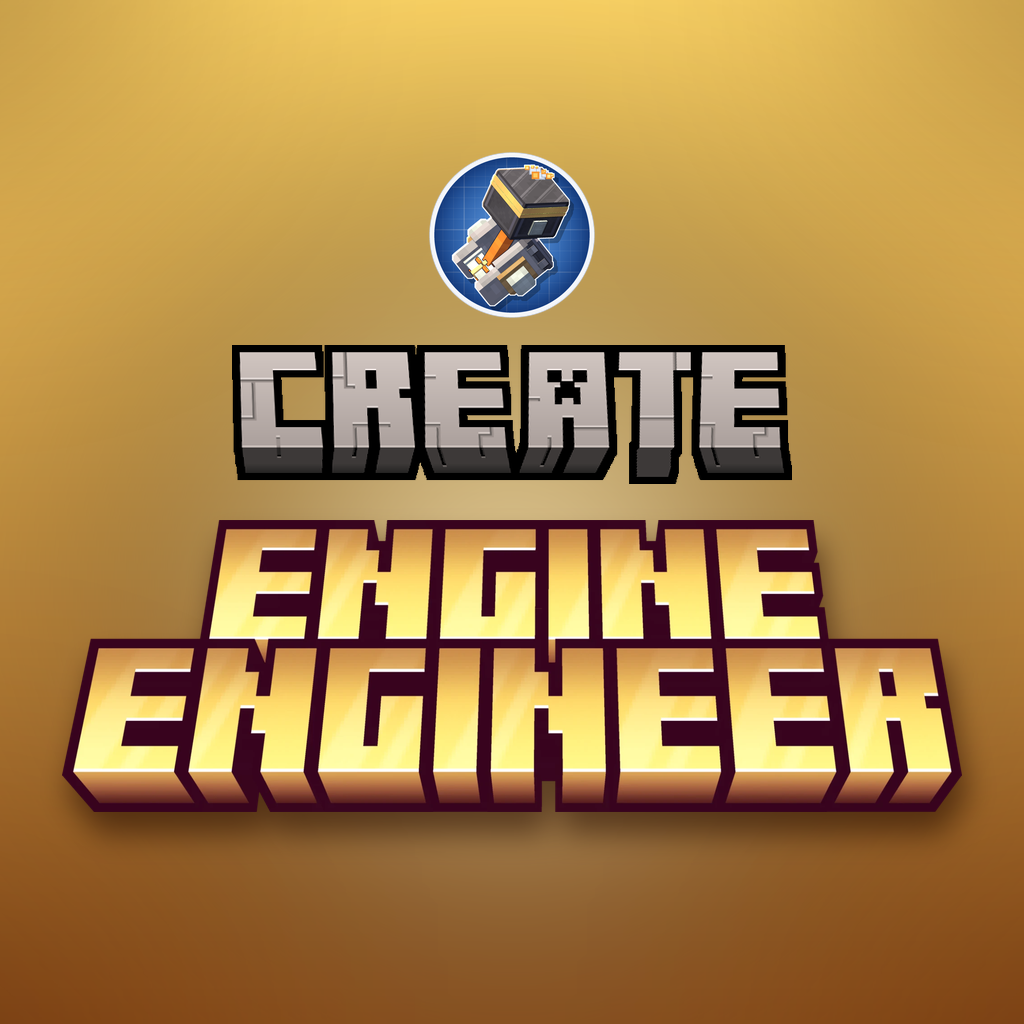
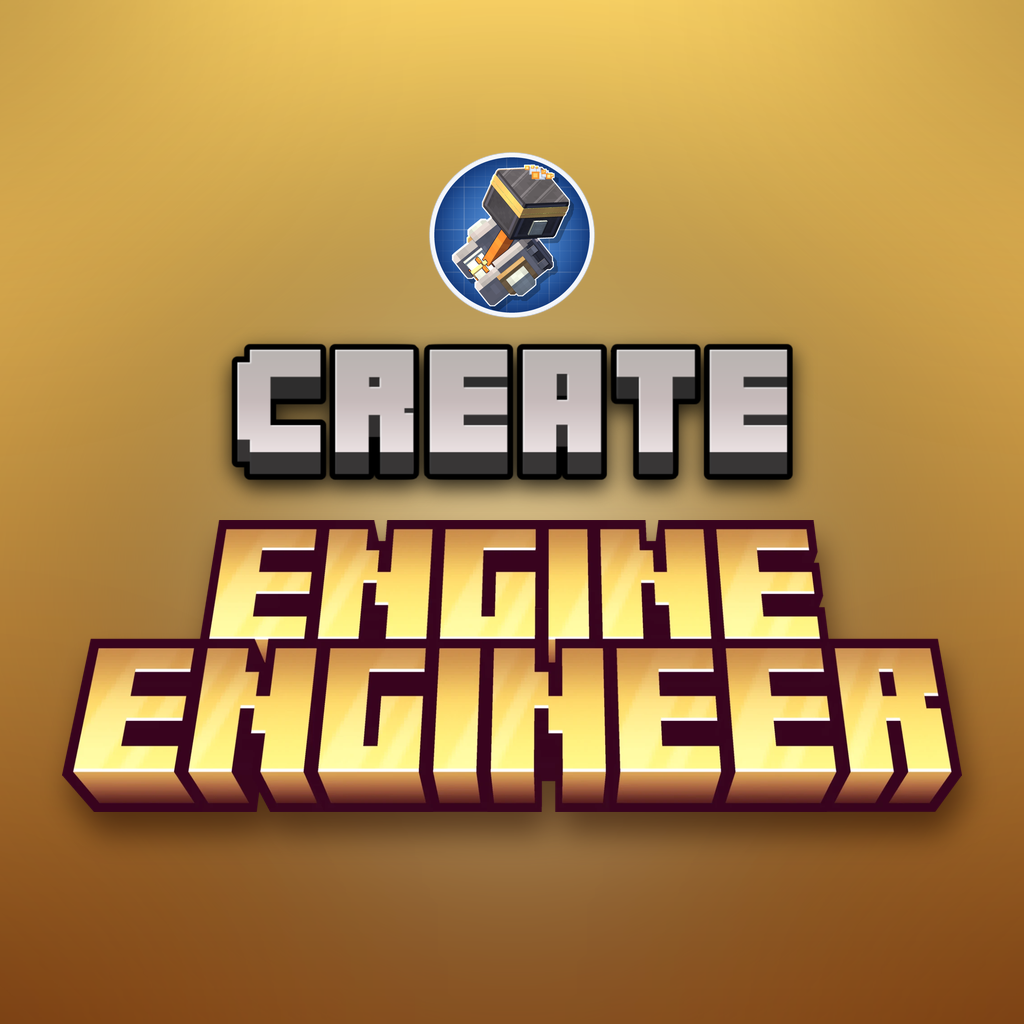
Use the author's CREATE lettering in the title art
Replaces the lettering cut from Minecraft's logo texture on the title cards,
thumbnail and golden listing tile.

Changed region(s): [[0.2188, 0.3125, 0.7812, 0.5]]

diff --git a/tools/create_lettering.py b/tools/create_lettering.py
@@ -1,100 +1,35 @@
-"""Typesets "CREATE" in Minecraft's own title-screen font, because Create ships no lettering.
+"""The "CREATE" lettering that goes above the wordmark: docs/images/create_lettering.png, a drawn picture on transparent.
 
-    python tools/create_lettering.py [output.png]      writes docs/images/create_lettering.png
-
-Minecraft's logo texture (assets/minecraft/textures/gui/title/minecraft.png) has the letters C, R, A and T and an E, so each
-letter is cut out with its outline and kept in the logo's own grey stone, then set in the order CREATE. `sized(width)` is what the title cards, thumbnail and listing tile place directly above the wordmark. Needs Pillow, numpy and scipy (the Python 3.12 install here has them) and a Gradle build having unpacked the client resources.
+`place()` is what the title cards, thumbnail and listing tile use. The picture has a soft shadow round the letters, so sizes
+and positions are measured on the letters themselves and the shadow hangs outside them. Needs Pillow (the Python 3.12
+install here has it).
 """
-import io
-import sys
-import zipfile
 from pathlib import Path
 
-import numpy as np
 from PIL import Image
-from scipy import ndimage as ndi
 
-ROOT = Path(__file__).resolve().parents[1]
-IMAGES = ROOT / "docs" / "images"
-
-ORDER = "CREATE"
-# the letters are cut from the logo's own letters (MINECRAFT has C, R, E, A and T): the x-ranges of each letter's face in the
-# 1024x256 texture, found by labelling the lit pixels (E is used twice)
-SPANS = {"E": (359, 466), "C": (475, 578), "R": (587, 694), "A": (695, 811), "T": (911, 1014)}
-OUTLINE = 9
-LEAN_PER_COLUMN = -0.0001  # the logo's letters lean their bottoms toward its middle by this many columns per row for each column away
-GAP = 10   # outlines are 9 px thick, so the faces end up 12 px apart and no outline cuts into a neighbour
+PICTURE = Path(__file__).resolve().parents[1] / "docs" / "images" / "create_lettering.png"
+SOLID = 250  # alpha above this is a letter or its outline; the shadow is fainter
 
 
-def title_texture():
-    """The game's own title-screen logo texture, from the resources jar the Gradle build unpacked."""
-    sys.path.insert(0, str(ROOT / "tools" / "trailer"))
-    import mcfont
-    with zipfile.ZipFile(mcfont._find_jar()) as jar:
-        return Image.open(io.BytesIO(jar.read("assets/minecraft/textures/gui/title/minecraft.png"))).convert("RGBA")
+def _open():
+    """The picture, and the box round its letters."""
+    picture = Image.open(PICTURE).convert("RGBA")
+    return picture, picture.getchannel("A").point(lambda a: 255 if a > SOLID else 0).getbbox()
 
 
-def letter(texture, ch, target=None):
-    """One letter with its own black outline and extrusion, recoloured, cropped to its pixels."""
-    a = np.array(texture).astype(int)
-    if ch == "T":  # the logo's T has its stem's foot curl left, which reads as a J: carry the stem straight down instead
-        for y in range(134, 167):
-            a[y] = np.roll(a[133], round((y - 133) * 0.28), axis=0)
-    lit = (a[..., 3] > 200) & (a[..., :3].mean(axis=2) > 35)
-    x0, x1 = SPANS[ch]
-    box = np.zeros_like(lit)
-    box[:, x0 - 3:x1 + 3] = True
-    labels, _ = ndi.label(lit & box)
-    biggest = np.argmax(ndi.sum(lit & box, labels, range(1, labels.max() + 1))) + 1
-    face = labels == biggest
-    pixels = np.where(face[..., None], a, 0).astype("uint8")  # the lit stone only: the outline is drawn round the whole word
-    image = Image.fromarray(pixels, "RGBA")
-    # The logo is in perspective: letters left of its middle lean one way and letters right of it the other, more the further out
-    # they are (the E about -0.1 columns per row, the T about +0.27). A letter keeps the lean it was cut with unless `target`
-    # asks for another, which is what lets it take the lean of the place it is set in the new word.
-    left = lambda y: np.nonzero(face[y])[0].min()
-    lean = (left(120) - left(40)) / 80
-    if target is not None:
-        d = lean - target
-        image = image.transform(image.size, Image.AFFINE, (1, d, -d * 90, 0, 1, 0), resample=Image.BICUBIC)
-    left, _, right, _ = image.getbbox()
-    return image.crop((left, 0, right, image.height))  # every letter keeps the logo's own height, so they share a baseline
+def height(width):
+    """How tall the letters are when `width` pixels wide."""
+    _, box = _open()
+    return round((box[3] - box[1]) * width / (box[2] - box[0]))
 
 
-def lettering(text=ORDER):
-    texture = title_texture()
-    glyphs = [letter(texture, ch) for ch in text]
-    # where each letter's middle falls in the word, then the lean the logo gives a letter at that distance from its middle
-    # (fitted to the logo: about 0.0006 columns per row for each column out)
-    widths = [g.width for g in glyphs]
-    total = sum(widths) + GAP * (len(widths) - 1)
-    centres, x = [], 0
-    for w in widths:
-        centres.append(x + w / 2 - total / 2)
-        x += w + GAP
-    glyphs = [letter(texture, ch, LEAN_PER_COLUMN * c) for ch, c in zip(text, centres)]
-    pad = OUTLINE + 2
-    width = sum(g.width for g in glyphs) + GAP * (len(glyphs) - 1) + 2 * pad
-    word = Image.new("RGBA", (width, texture.height + 2 * pad), (0, 0, 0, 0))
-    x = pad
-    for g in glyphs:
-        word.alpha_composite(g, (x, pad))
-        x += g.width + GAP
-    solid = np.array(word.getchannel("A")) > 0
-    around = ndi.binary_dilation(solid, structure=np.ones((3, 3), bool), iterations=OUTLINE)
-    image = Image.new("RGBA", word.size, (0, 0, 0, 0))
-    image.paste((0, 0, 0, 255), (0, 0), Image.fromarray((around * 255).astype("uint8")))
-    image.alpha_composite(word)
-    return image.crop(image.getbbox())
-
-
-def sized(width):
-    """The lettering scaled to `width` pixels wide, on transparent."""
-    image = lettering()
-    return image.resize((width, round(image.height * width / image.width)), Image.LANCZOS)
-
-
-if __name__ == "__main__":
-    target = Path(sys.argv[1]) if len(sys.argv) > 1 else IMAGES / "create_lettering.png"
-    lettering().save(target)
-    print(target)
+def place(canvas, width, top, left=None):
+    """Draws the lettering on `canvas` with the letters `width` pixels wide and their top at `top`, starting at `left` or
+    else centred across the canvas."""
+    picture, box = _open()
+    scale = width / (box[2] - box[0])
+    scaled = picture.resize((round(picture.width * scale), round(picture.height * scale)), Image.LANCZOS)
+    if left is None:
+        left = (canvas.width - width) // 2
+    canvas.alpha_composite(scaled, (left - round(box[0] * scale), top - round(box[1] * scale)))

diff --git a/tools/trailer/post.py b/tools/trailer/post.py
@@ -43,7 +43,7 @@ import mcfont
 import sfx
 
 sys.path.insert(0, str(Path(__file__).resolve().parents[1]))
-import create_lettering  # noqa: E402  (Create's logo and the "CREATE" block letters, side by side)
+import create_lettering  # noqa: E402  (the "CREATE" lettering above the wordmark)
 
 HERE = Path(__file__).resolve().parent
 ROOT = HERE.parents[1]
@@ -198,7 +198,7 @@ def wrapped(text, scale, limit):
 
 
 def card_image(title, lines, layout, path, footer=None, notice=None, links=None, overlay=False, docs=None, shade=110):
-    """The mod's icon, "CREATE" in Minecraft's title font and the wordmark under it (together the title), a copper rule, and
+    """The mod's icon, the "CREATE" lettering and the wordmark under it (together the title), a copper rule, and
     the lines under it, in Minecraft's font on the dark card. An overlay is the same title on clear glass with a shade (`shade`
     of 255), to lie over footage. `docs` is a line under the AI notice saying where to read how AI is used."""
     lay = LAYOUTS[layout]
@@ -207,7 +207,7 @@ def card_image(title, lines, layout, path, footer=None, notice=None, links=None,
     mark = Image.open(WORDMARK).convert("RGBA")
     mark = mark.resize((lay["mark"], round(mark.height * lay["mark"] / mark.width)), Image.LANCZOS)
     centred(image, mark, lay["mark_y"] + dy)
-    centred(image, create_lettering.sized(lay["create"]), lay["create_y"] + dy)
+    create_lettering.place(image, lay["create"], lay["create_y"] + dy)
     icon = Image.open(LOGO).convert("RGBA").resize((lay["icon"], lay["icon"]), Image.LANCZOS)
     centred(image, icon, lay["icon_y"] + dy)
     draw = ImageDraw.Draw(image)
@@ -871,8 +871,7 @@ def thumbnail(ffmpeg, args, words, shots, work):
     mark = mark.resize((720, round(mark.height * 720 / mark.width)), Image.LANCZOS)
     mark_y = image.height - mark.height - 44
     image.alpha_composite(mark, (48, mark_y))
-    create = create_lettering.sized(380)
-    image.alpha_composite(create, (48 + (720 - create.width) // 2, mark_y - create.height - 10))
+    create_lettering.place(image, 380, mark_y - create_lettering.height(380) - 10, 48 + (720 - 380) // 2)
     icon = Image.open(LOGO).convert("RGBA").resize((150, 150), Image.LANCZOS)
     image.alpha_composite(icon, (36, 36))
     Path(args.thumbnail).resolve().parent.mkdir(parents=True, exist_ok=True)

diff --git a/tools/listing_art.py b/tools/listing_art.py
@@ -3,7 +3,7 @@
     python tools/listing_art.py [output.png]
 
 A warm gold-to-bronze tile with a soft light behind the title, the wordmark (docs/images/wordmark.png) large across the middle,
-and "CREATE" in Minecraft's title font (tools/create_lettering.py) directly above it and the mod's icon above that. Downscale it to 512x512 for a site's icon slot.
+and the "CREATE" lettering (tools/create_lettering.py) directly above it and the mod's icon above that. Downscale it to 512x512 for a site's icon slot.
 Needs Pillow (the Python 3.12 install here has it).
 """
 import sys
@@ -65,8 +65,7 @@ def main():
     tile.alpha_composite(shadow, (x + 6 - pad, y + 22 - pad))
     tile.alpha_composite(mark, (x, y))
 
-    create = create_lettering.sized(560)
-    tile.alpha_composite(create, ((SIZE - create.width) // 2, 345))
+    create_lettering.place(tile, 560, 345)
     icon = Image.open(IMAGES / "icon.png").convert("RGBA").resize((170, 170), Image.LANCZOS)
     tile.alpha_composite(icon, ((SIZE - 170) // 2, 150))
 

diff --git a/docs/SMOKE.md b/docs/SMOKE.md
@@ -271,8 +271,8 @@ python tools/trailer/record.py --post-only  # cuts the last recordings again (ne
   line says so), a light grade (a slight S-curve, a hint of warm highlights and cool shadows, a faint vignette), a 2.2:1 letterbox, and a caption at
   the lower left that slides in, with its chapter's name over it in gold (`chapter <shot>` lines of `captions.txt`; a `quiet`
   piece keeps the caption before it). A chapter starts with a white flash and a hit. The full cut opens cold on the single
-  cylinder with only the game's sound, slams the title (the mod's round icon, `docs/images/icon.png`, "CREATE" in Minecraft's
-  title font, cut from the game's own logo texture by `tools/create_lettering.py`, and the gold wordmark `docs/images/wordmark.png`)
+  cylinder with only the game's sound, slams the title (the mod's round icon, `docs/images/icon.png`, the "CREATE" lettering
+  `docs/images/create_lettering.png`, placed by `tools/create_lettering.py`, and the gold wordmark `docs/images/wordmark.png`)
   over the title shot with a flash and a boom as the music comes in, and ends with a riser into the last shot, a fade through black
   and an end card (the version line from `gradle.properties`, "Links in the description" and the AI notice, `outro_notice`) with a
   sting. The 16:9 thumbnail uses the same title; `tools/listing_art.py` makes the golden listing tile `docs/images/listing_gold.png`.
